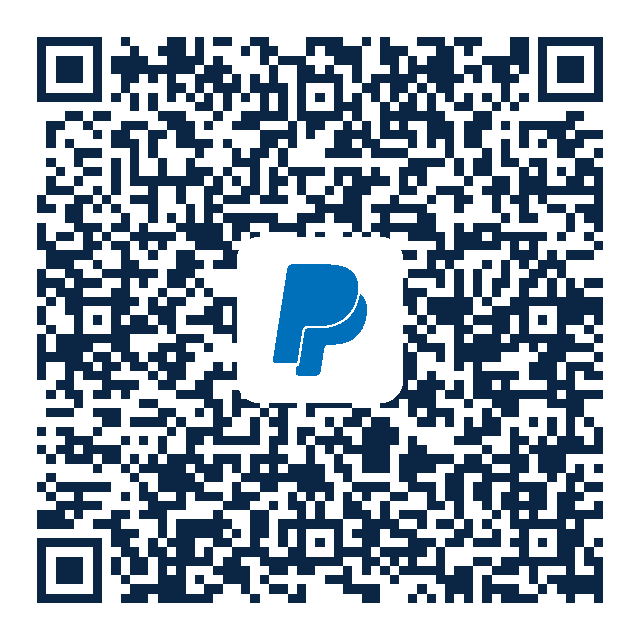
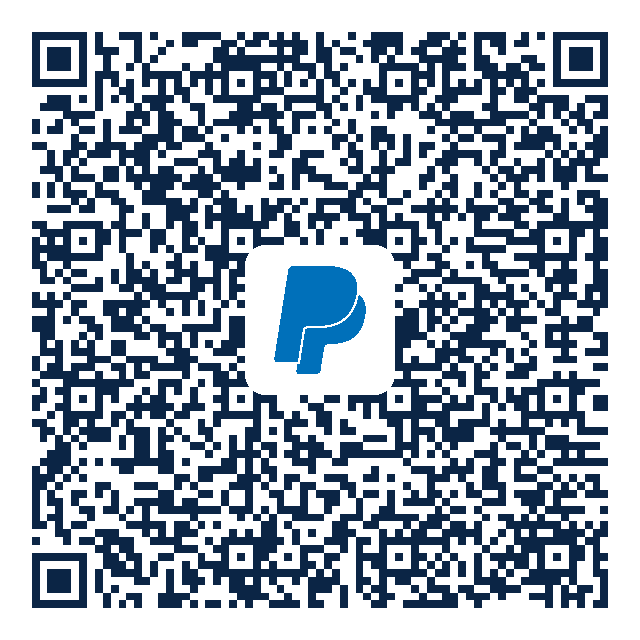
fix(donar): usar método PayPal clásico de GMI (lc=US) para pago con tarjeta como invitado
- Botón y QR pasan de /donate/ moderno al webscr clásico con lc=US, no_shipping y bn,
  replicando la integración de GMI que no obliga a crear cuenta.
- QR regenerado con la nueva URL.

diff --git a/app/(public)/donar/page.tsx b/app/(public)/donar/page.tsx
@@ -14,10 +14,12 @@ export const metadata: Metadata = {
 // necesidad de reconstruir el sitio.
 export const revalidate = 60;
 
-// Enlace directo a la página de donación de PayPal de GMI (el mismo que codifica
-// el QR). El donante elige el monto y puede pagar con tarjeta sin cuenta PayPal.
+// Enlace directo a la donación de PayPal (el mismo que codifica el QR). Usa el
+// método CLÁSICO de GMI (endpoint webscr + lc=US + no_shipping + bn): así PayPal
+// ofrece pago con tarjeta como invitado, sin obligar a crear cuenta. El flujo
+// moderno /donate/ sin lc empujaba a crear cuenta a donantes fuera de EE.UU.
 const PAYPAL_DONATE_URL =
-  "https://www.paypal.com/donate/?business=accounting@gospelministry.org&currency_code=USD&item_name=Red+ADvenir+Internacional";
+  "https://www.paypal.com/cgi-bin/webscr?cmd=_donations&business=accounting@gospelministry.org&item_name=Red+ADvenir+Internacional&currency_code=USD&no_shipping=1&lc=US&bn=PP-DonationsBF";
 
 function Card({
   icon,
